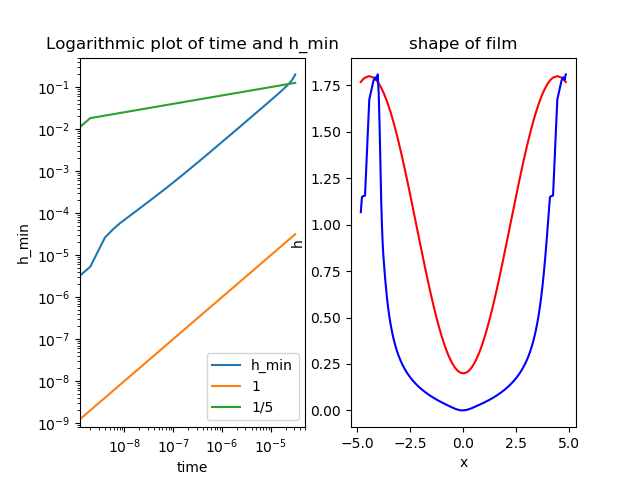
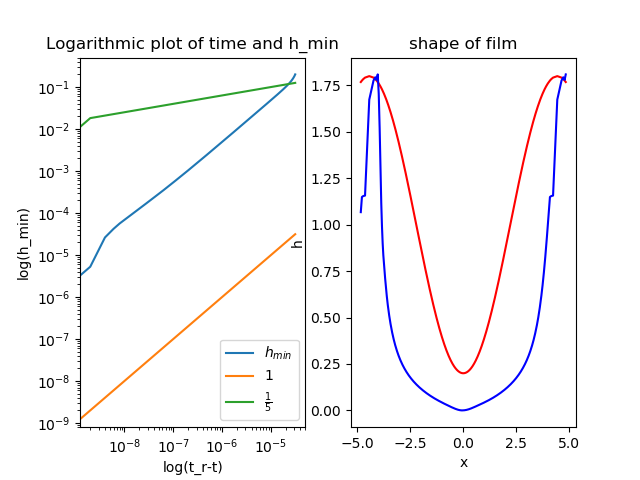
Add latex style to plotting.

Changed region(s): [[0.3125, 0.7188, 0.4688, 0.875], [0.0312, 0.4375, 0.0625, 0.5938], [0.25, 0.9688, 0.3438, 1.0]]

diff --git a/plot_project3.py b/plot_project3.py
@@ -3,6 +3,11 @@ import matplotlib.pyplot as plt
 import numpy as np
 from matplotlib.colors import LogNorm
 
+
+# set text style
+#rc('font',**{'family':'sans-serif','sans-serif':['Helvetica']})
+#rc('text',usetext=True)
+
 dat = NC.Dataset("project3.nc","r",format="NETCDF4")
 
 #print(dat.__dict__)
@@ -18,13 +23,14 @@ time = dat.variables['time']
 
 fig, (ax0,ax1) = plt.subplots(1,2)
 
-c = ax0.loglog(time[-1]-time,h_min)
-c = ax0.loglog(time[-1]-time,time[-1]-time)
-c = ax0.loglog(time[-1]-time,(time[-1]-time)**(1/5))
+c = ax0.loglog(time[-1]-time,h_min,label=r'$h_{min}$')
+c = ax0.loglog(time[-1]-time,time[-1]-time,label='1')
+c = ax0.loglog(time[-1]-time,(time[-1]-time)**(1/5),label='$\\frac{1}{5}$')
 ax0.set_title('Logarithmic plot of time and h_min')
-ax0.set_xlabel('time')
-ax0.set_ylabel('h_min')
-ax0.legend(['h_min','1','1/5'])
+ax0.set_xlabel('log(t_r-t)')
+ax0.set_ylabel('log(h_min)')
+#ax0.legend(['h_min','1','1/5'])
+ax0.legend()
 c = ax1.plot(x,h0,'r')
 c = ax1.plot(x,h,'b')
 ax1.set_title('shape of film')
